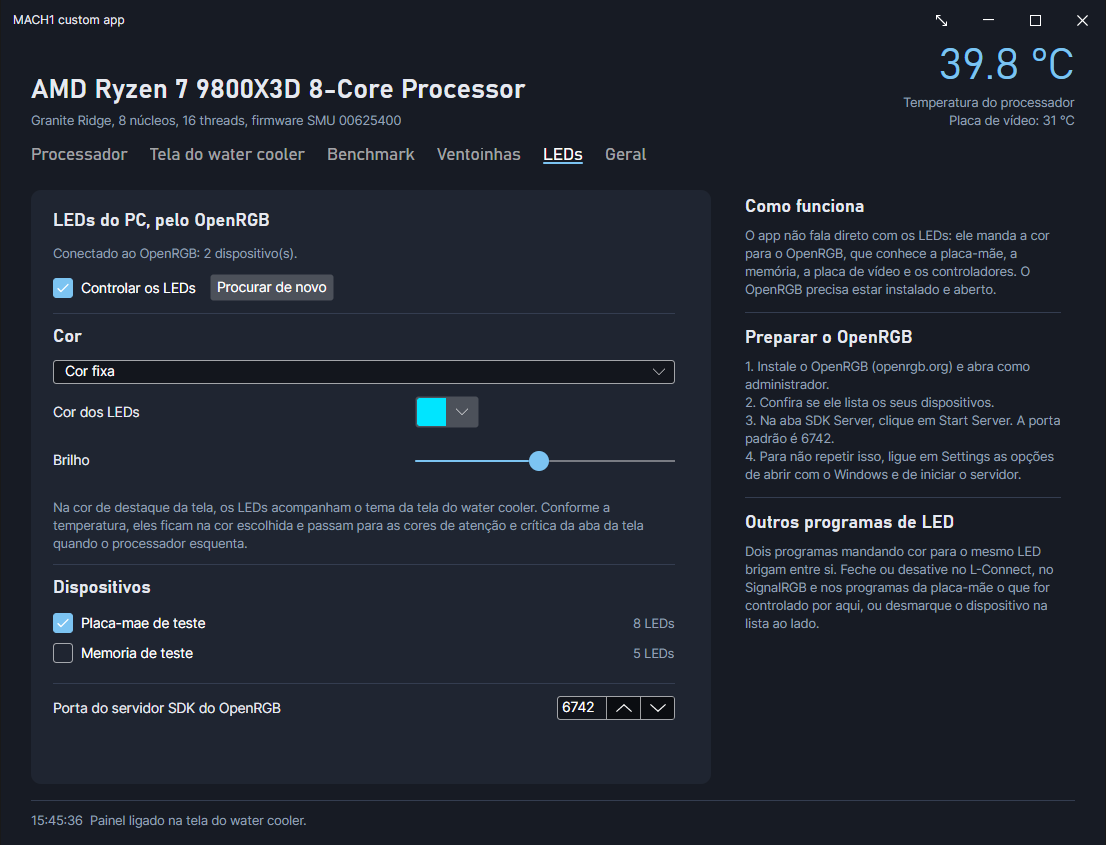
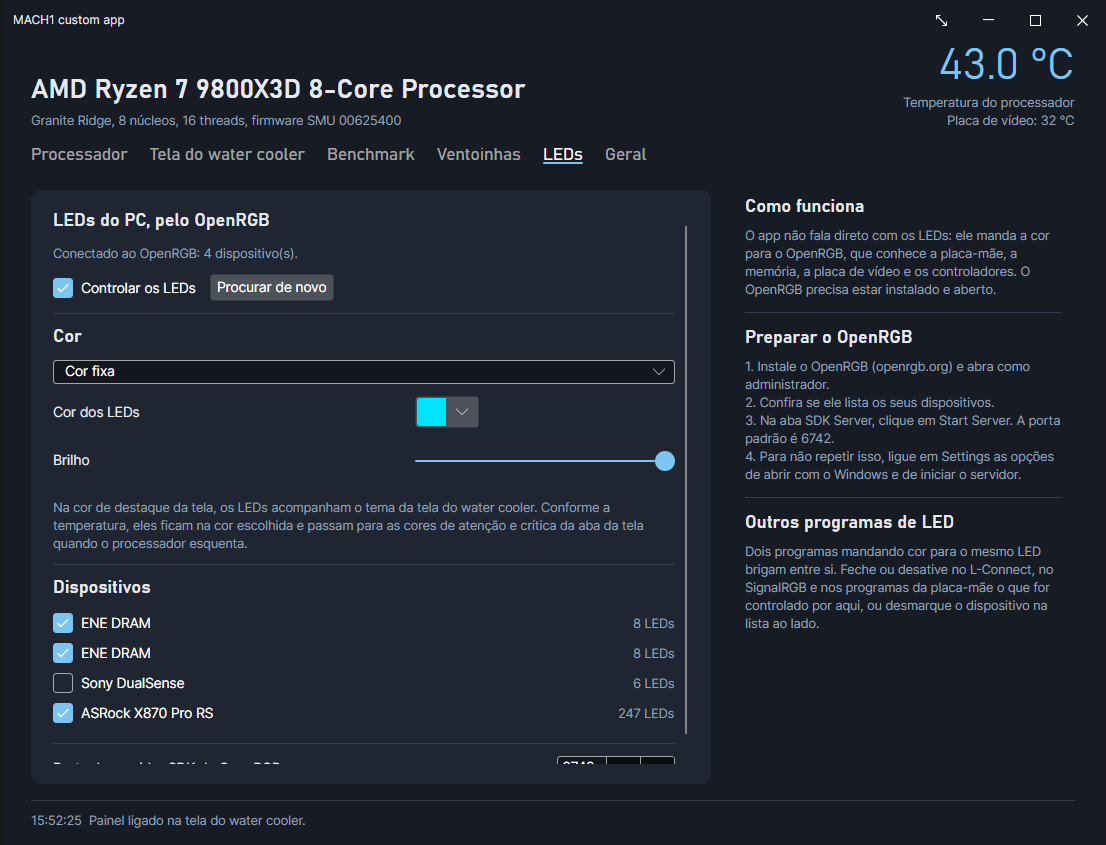
Guia: aba LEDs testada com o OpenRGB 1.0

diff --git a/docs/guia.md b/docs/guia.md
@@ -206,7 +206,7 @@ A curva reage rápido quando esquenta e devagar quando esfria, para a ventoinha 
 
 ![Aba de LEDs](imagens/leds.png)
 
-Esta aba controla os LEDs RGB do PC por meio do [OpenRGB](https://openrgb.org/). O app não fala direto com os LEDs: ele manda a cor para o OpenRGB, que conhece a placa-mãe, a memória, a placa de vídeo e os controladores. Na imagem acima os dois dispositivos são de um servidor de teste.
+Esta aba controla os LEDs RGB do PC por meio do [OpenRGB](https://openrgb.org/). O app não fala direto com os LEDs: ele manda a cor para o OpenRGB, que conhece a placa-mãe, a memória, a placa de vídeo e os controladores. Na imagem acima, o OpenRGB 1.0 encontrou os dois módulos de memória, a placa-mãe e um controle DualSense, que foi deixado de fora.
 
 **Preparar o OpenRGB**
 
@@ -228,7 +228,7 @@ Esta aba controla os LEDs RGB do PC por meio do [OpenRGB](https://openrgb.org/).
 - Todos os LEDs de um dispositivo recebem a mesma cor; não há efeitos nem cor por LED.
 - Dois programas mandando cor para o mesmo LED brigam entre si. Feche ou desative no L-Connect, no SignalRGB e nos programas da placa-mãe o que for controlado pelo app.
 - Ao desligar a opção ou fechar o app, os LEDs ficam na última cor enviada.
-- A integração foi testada com um servidor de teste que imita o OpenRGB, não com o OpenRGB de verdade nem com LEDs.
+- Testado com o OpenRGB 1.0, memória XPG (ENE DRAM) e placa-mãe ASRock X870 Pro RS. O OpenRGB não encontrou as ventoinhas sem fio da Lian Li nesse PC, então elas ficam de fora.
 
 ## Geral
 
